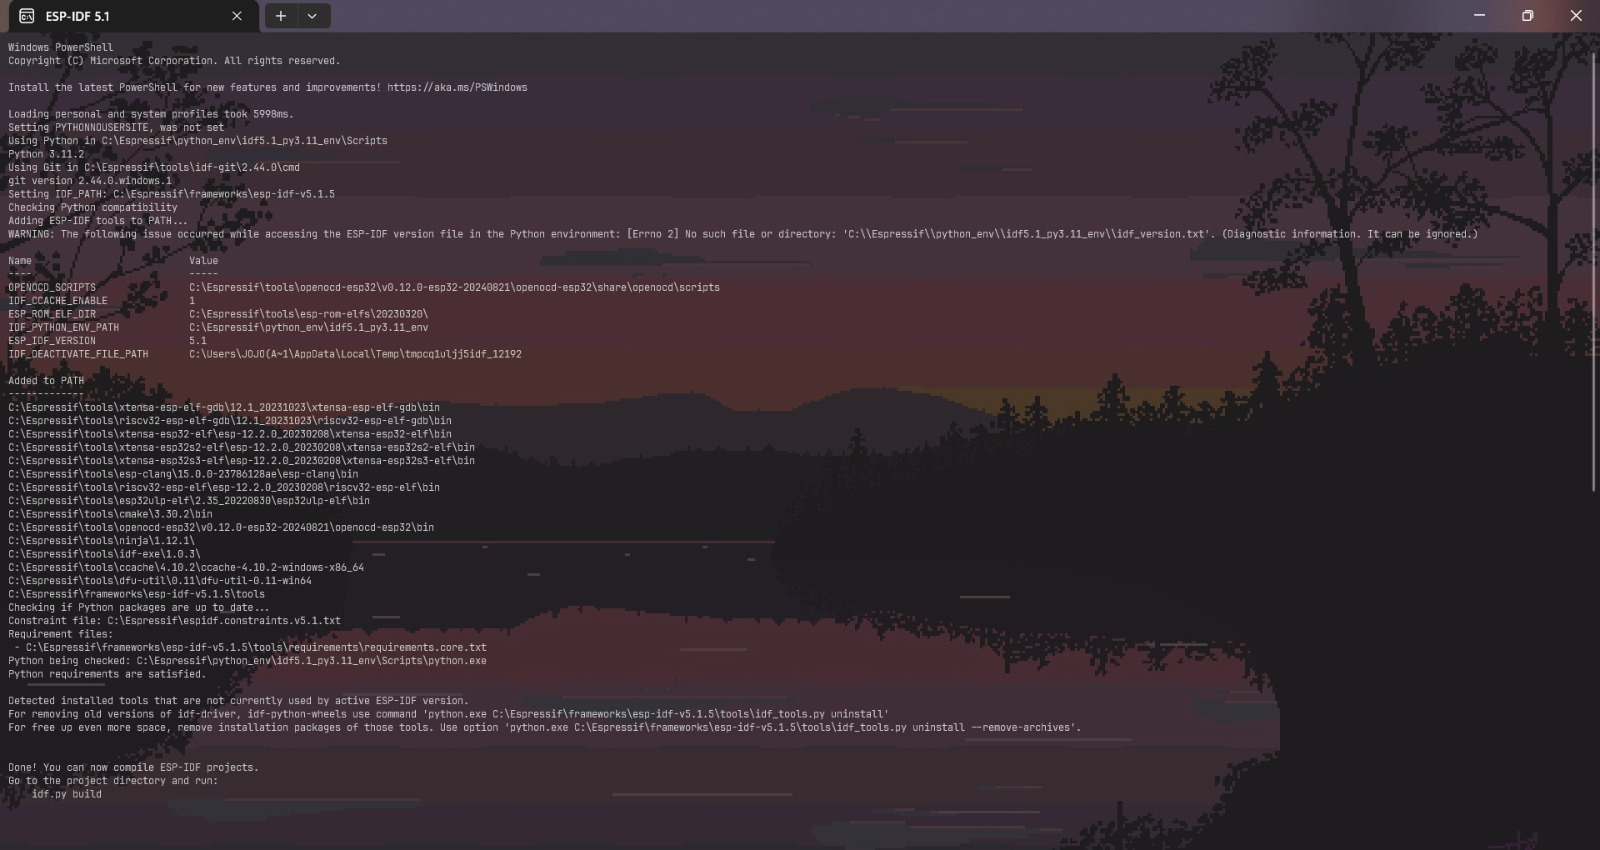
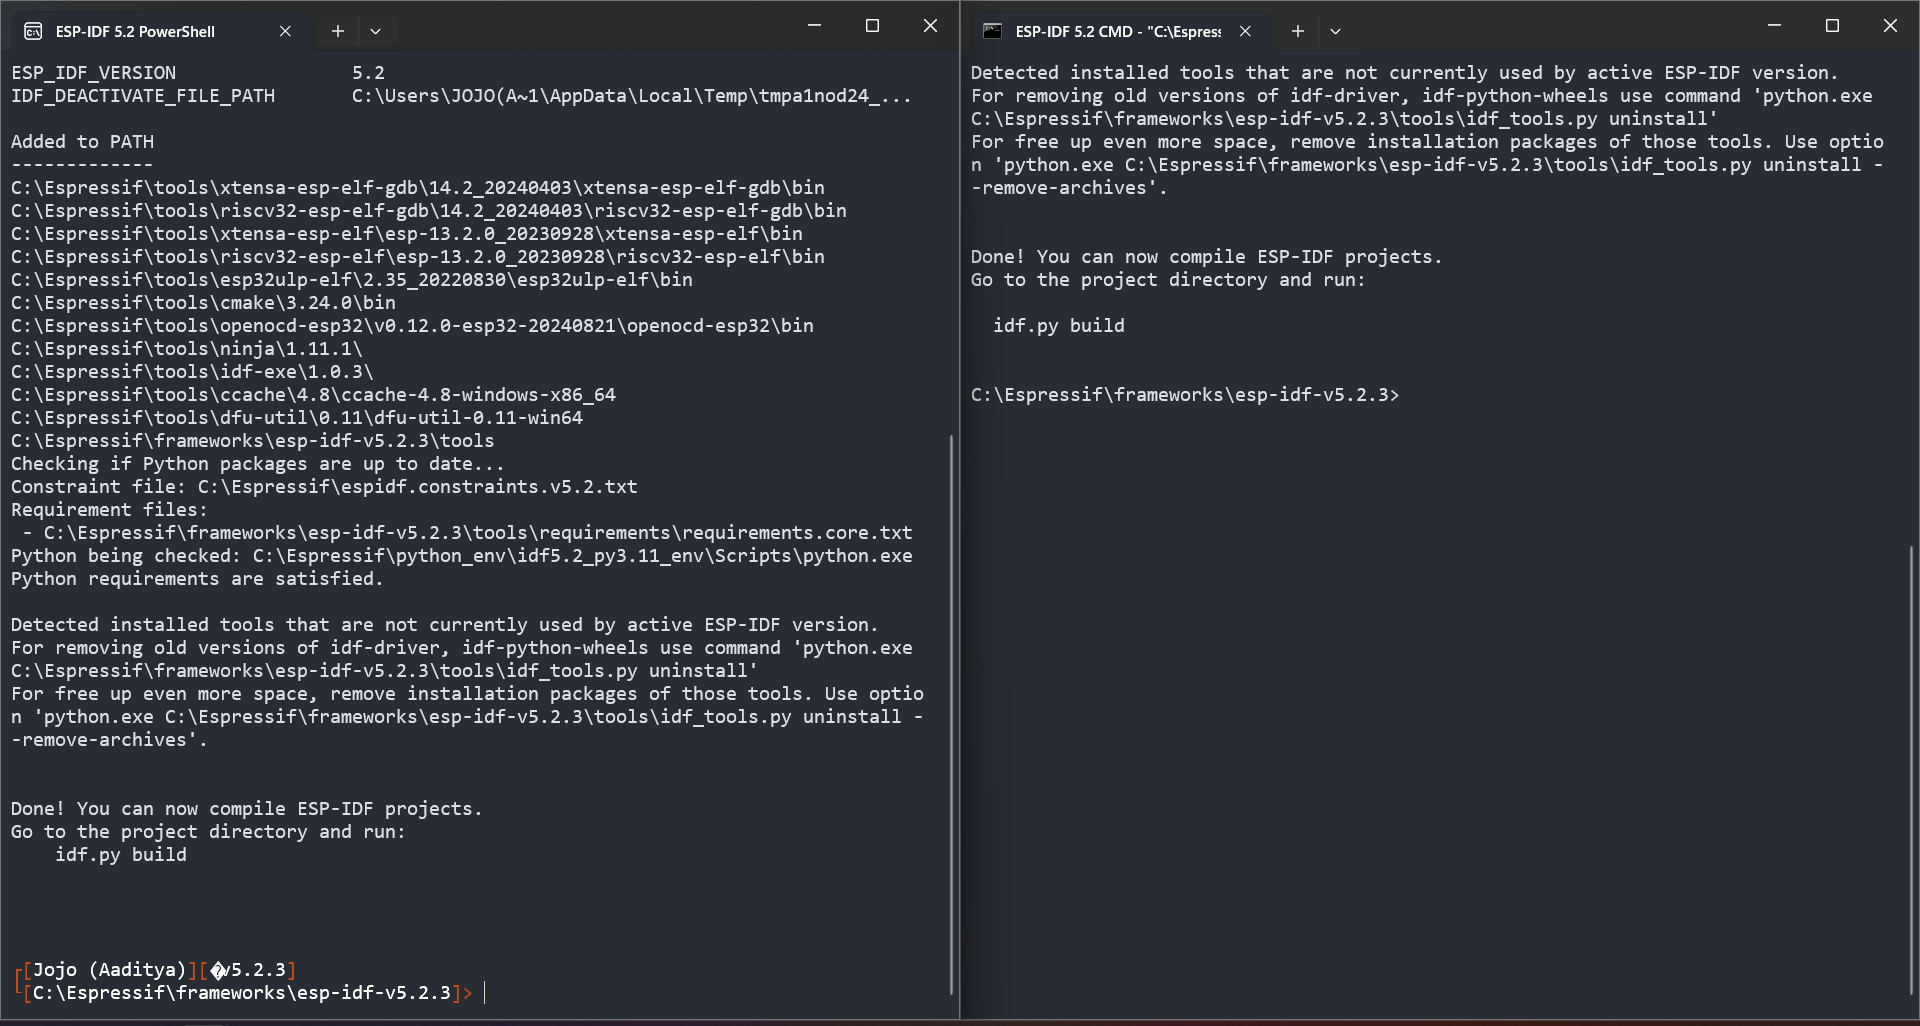
Changed the Installations Instructions as instructed and updated the MacOS instructions

diff --git a/Installations.md b/Installations.md
@@ -5,7 +5,7 @@
     * [For MacOS](#for-macos)
 
 # For Windows
-The first step is to install the ESP-IDF v4.2. 
+The first step is to install the ESP-IDF v5.2. 
 
 ## Step 1:Download the installer from [here](https://dl.espressif.com/dl/esp-idf/?idf=5.2)
 Please download the **offline** version pointed by the
@@ -105,19 +105,17 @@ sudo chmod +x wall_e_install.sh
 
 
 ## For MacOS
-### STEP 1 : Installing the necessary file
-- Download the file "wall_e_install.sh" given in the root folder itself and put it in the "Downloads" folder
-- Download the driver by clicking on this [link](https://www.silabs.com/documents/public/software/Mac_OSX_VCP_Driver.zip) , unzip it, then install it on the system
-
-### STEP 2 : Opening The Terminal
+### STEP 1 : Opening The Terminal
 Open the terminal by pressing command+space and then typing terminal.
 
 **Note:** If you're an M1 mac os user refer this [link](https://youtu.be/9W8rTTE1WEA) to open the terminal.
 
-### STEP 3 : Installing the Pre-Requisites 
-Copy this command in the command in the terminal , then press return 
+### STEP 2 : Installing the necessary file
+- Download the driver by executing the following command in the terminal.
 ```sh
- source ~/Downloads/wall_e_install.sh
+curl https://raw.githubusercontent.com/SRA-VJTI/Wall-E/refs/heads/master/wall_e_install.sh -o wall_e_install.sh
+sudo chmod +x wall_e_install.sh
+./wall_e_install.sh
 ```
 Note:- when you are asked to type the password in the terminal, password will not be visible to you. Just type the password and then press return.
 
@@ -133,7 +131,7 @@ Cloning the Wall-E Git repo
 To clone the repo,execute the following commands on terminal.
 ```sh
 cd $HOME
-git clone https://github.com/SRA-VJTI/Wall-E.git --recurse-submodules
+git clone https://github.com/SRA-VJTI/Wall-E.git --recurse_submodules
 cd Wall-E
 ```
 <p align="center">
@@ -251,5 +249,3 @@ and for **windows** COM1 can be replaced by other number depending on the port t
 ```sh
 idf.py flash monitor
 ```
-
-
